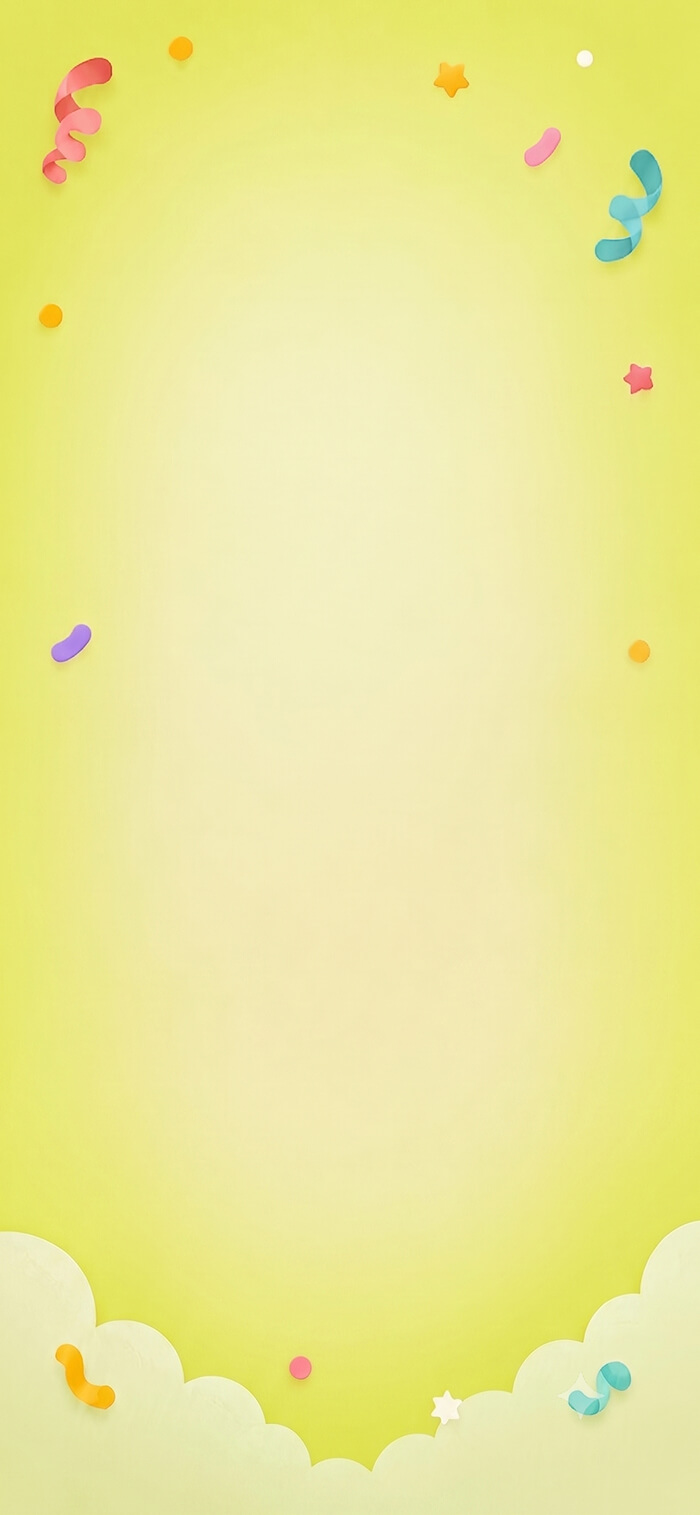
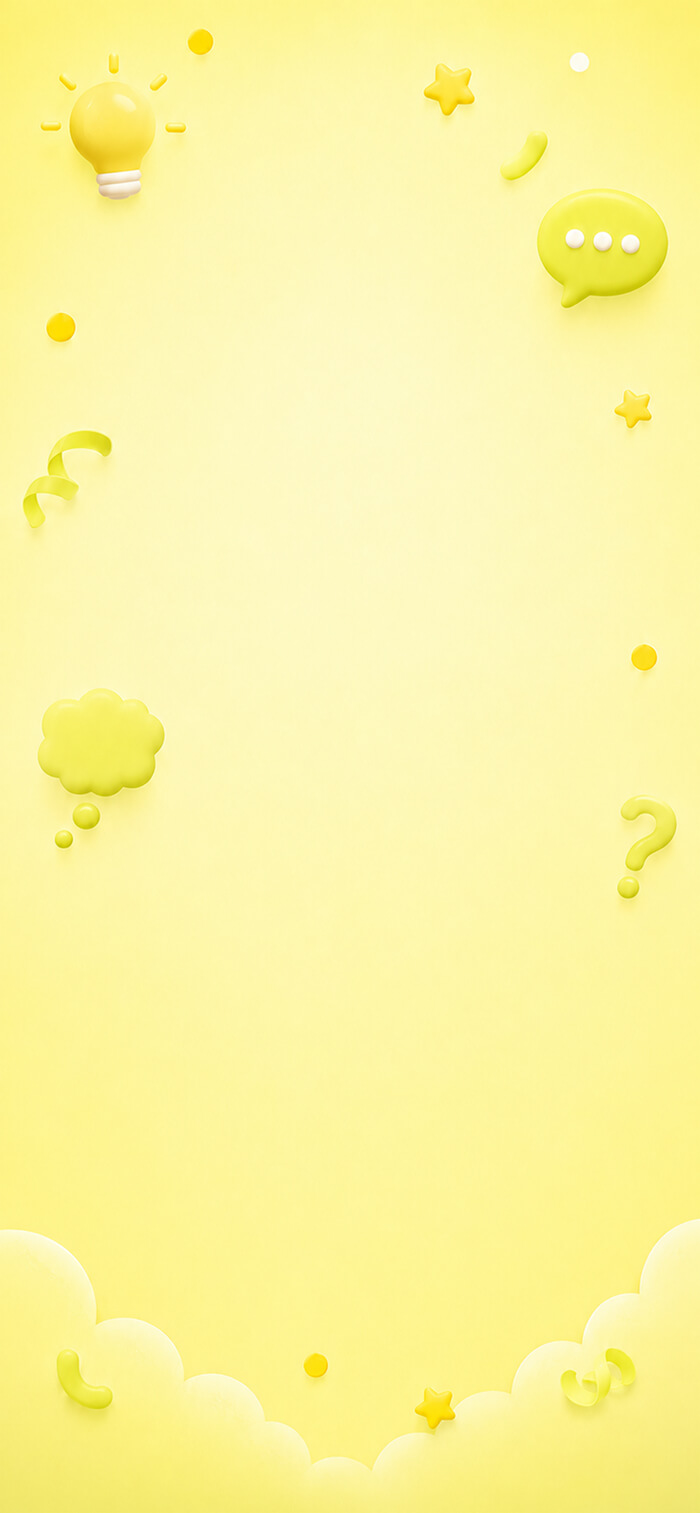
feat: enhance game setup with word count slider and layout adjustments
Add a HorizontalSlider for word count selection, allowing dynamic range from 30 to 150 with a step of 10. Update the layout to disable gestures for the stack navigation. Replace the background image with a new JPEG version for improved performance.

diff --git a/src/ui/components/HorizontalSlider.tsx b/src/ui/components/HorizontalSlider.tsx
@@ -1,0 +1,167 @@
+import { useRef, useState } from 'react';
+import {
+  View,
+  type AccessibilityActionEvent,
+  type GestureResponderEvent,
+  type LayoutChangeEvent,
+} from 'react-native';
+
+import { triggerHaptic } from '@infrastructure/haptics';
+import { Text } from '@ui/components/Text';
+
+const TRACK_HEIGHT = 8;
+const THUMB_SIZE = 28;
+const HIT_HEIGHT = 48;
+
+type HorizontalSliderProps = {
+  label: string;
+  min: number;
+  max: number;
+  step: number;
+  value: number;
+  onChange: (value: number) => void;
+};
+
+export function snapSliderValue(value: number, min: number, max: number, step: number): number {
+  if (step <= 0 || max <= min) {
+    return Math.min(max, Math.max(min, value));
+  }
+  const snapped = Math.round((value - min) / step) * step + min;
+  return Math.min(max, Math.max(min, snapped));
+}
+
+function clamp(value: number, min: number, max: number): number {
+  return Math.min(Math.max(value, min), max);
+}
+
+function valueFromX(x: number, width: number, min: number, max: number, step: number): number {
+  if (width <= 0) {
+    return min;
+  }
+  const ratio = clamp(x / width, 0, 1);
+  return snapSliderValue(min + ratio * (max - min), min, max, step);
+}
+
+export function HorizontalSlider({
+  label,
+  min,
+  max,
+  step,
+  value,
+  onChange,
+}: HorizontalSliderProps) {
+  const snappedValue = snapSliderValue(value, min, max, step);
+  const [trackWidth, setTrackWidth] = useState(0);
+  const originXRef = useRef(0);
+
+  const progress = max <= min ? 0 : (snappedValue - min) / (max - min);
+  const visualX = progress * trackWidth;
+
+  const applyPageX = (pageX: number) => {
+    if (trackWidth <= 0) {
+      return;
+    }
+    const x = clamp(pageX - originXRef.current, 0, trackWidth);
+    const next = valueFromX(x, trackWidth, min, max, step);
+    if (next === snappedValue) {
+      return;
+    }
+    triggerHaptic('light');
+    onChange(next);
+  };
+
+  const onGrant = (event: GestureResponderEvent) => {
+    originXRef.current = event.nativeEvent.pageX - event.nativeEvent.locationX;
+    applyPageX(event.nativeEvent.pageX);
+  };
+
+  const onMove = (event: GestureResponderEvent) => {
+    applyPageX(event.nativeEvent.pageX);
+  };
+
+  const onRelease = () => {
+    return;
+  };
+
+  const onLayout = (event: LayoutChangeEvent) => {
+    setTrackWidth(event.nativeEvent.layout.width);
+  };
+
+  const onAccessibilityAction = (event: AccessibilityActionEvent) => {
+    const action = event.nativeEvent.actionName;
+    if (action !== 'increment' && action !== 'decrement') {
+      return;
+    }
+    const next = snapSliderValue(
+      snappedValue + (action === 'increment' ? step : -step),
+      min,
+      max,
+      step,
+    );
+    if (next === snappedValue) {
+      return;
+    }
+    triggerHaptic('light');
+    onChange(next);
+  };
+
+  const thumbLeft =
+    trackWidth <= 0 ? 0 : clamp(visualX - THUMB_SIZE / 2, 0, trackWidth - THUMB_SIZE);
+
+  return (
+    <View className="w-full">
+      <View className="mb-[14px] flex-row items-center justify-between gap-3">
+        <Text className="flex-1 text-2xl font-bold">{label}</Text>
+        <Text className="text-2xl font-bold text-pink">{snappedValue}</Text>
+      </View>
+      <View
+        accessibilityRole="adjustable"
+        accessibilityLabel={label}
+        accessibilityValue={{ min, max, now: snappedValue }}
+        accessibilityActions={[{ name: 'increment' }, { name: 'decrement' }]}
+        onAccessibilityAction={onAccessibilityAction}
+      >
+        <View
+          className="w-full justify-center"
+          style={{ height: HIT_HEIGHT }}
+          pointerEvents="box-only"
+          onLayout={onLayout}
+          onStartShouldSetResponder={() => true}
+          onMoveShouldSetResponder={() => true}
+          onResponderTerminationRequest={() => false}
+          onResponderGrant={onGrant}
+          onResponderMove={onMove}
+          onResponderRelease={onRelease}
+          onResponderTerminate={onRelease}
+        >
+          <View
+            className="overflow-hidden rounded-full border border-pickerBorder bg-pickerSurface"
+            style={{ height: TRACK_HEIGHT }}
+            pointerEvents="none"
+          >
+            <View className="h-full rounded-full bg-pink" style={{ width: visualX }} />
+          </View>
+          <View
+            className="absolute rounded-full border-[3px] border-white bg-pink"
+            pointerEvents="none"
+            style={{
+              width: THUMB_SIZE,
+              height: THUMB_SIZE,
+              top: (HIT_HEIGHT - THUMB_SIZE) / 2,
+              transform: [{ translateX: thumbLeft }],
+              shadowColor: '#000',
+              shadowOffset: { width: 0, height: 2 },
+              shadowOpacity: 0.2,
+              shadowRadius: 2,
+              elevation: 3,
+            }}
+          />
+        </View>
+      </View>
+      <View className="flex-row justify-between">
+        <Text className="text-sm font-bold text-disabledText">{min}</Text>
+        <Text className="text-sm font-bold text-disabledText">{max}</Text>
+      </View>
+    </View>
+  );
+}

diff --git a/src/app/game/setup.tsx b/src/app/game/setup.tsx
@@ -10,6 +10,7 @@ import { useGameActions, useGameState } from '@features/game/hooks';
 import { useAppSettings } from '@features/settings/store';
 import { ContentColumn } from '@ui/components/ContentColumn';
 import { HorizontalPicker } from '@ui/components/HorizontalPicker';
+import { HorizontalSlider, snapSliderValue } from '@ui/components/HorizontalSlider';
 import { ScreenFooter } from '@ui/components/ScreenFooter';
 import { ScreenHeader } from '@ui/components/ScreenHeader';
 
@@ -17,7 +18,9 @@ const mainBg = require('@assets/images/main-bg.jpg');
 
 const TURN_DURATIONS_SEC = [60, 90, 120] as const;
 const TEAM_COUNTS = [2, 3, 4, 5] as const;
-const WORD_COUNTS = [30, 60, 90, 120] as const;
+const WORD_COUNT_MIN = 30;
+const WORD_COUNT_MAX = 150;
+const WORD_COUNT_STEP = 10;
 
 function SettingsCard({ children }: { children: ReactNode }) {
   return (
@@ -42,10 +45,14 @@ export default function SetupScreen() {
   const { dispatch } = useGameActions();
   const appSettings = useAppSettings();
 
-  const [settings, setSettings] = useState<MatchSettings>(() => ({
-    ...(settingsFromStore ?? DEFAULT_MATCH_SETTINGS),
-    skipPenalty: appSettings.skipPenaltyEnabled ? -1 : 0,
-  }));
+  const [settings, setSettings] = useState<MatchSettings>(() => {
+    const base = settingsFromStore ?? DEFAULT_MATCH_SETTINGS;
+    return {
+      ...base,
+      skipPenalty: appSettings.skipPenaltyEnabled ? -1 : 0,
+      wordCount: snapSliderValue(base.wordCount, WORD_COUNT_MIN, WORD_COUNT_MAX, WORD_COUNT_STEP),
+    };
+  });
 
   const difficultyOptions = useMemo<Difficulty[]>(() => ['easy', 'medium', 'hard'], []);
   const difficultyLabels: Record<Difficulty, string> = {
@@ -88,9 +95,11 @@ export default function SetupScreen() {
                 />
               </SettingsCard>
               <SettingsCard>
-                <HorizontalPicker
+                <HorizontalSlider
                   label={strings.setup.wordCount}
-                  options={[...WORD_COUNTS]}
+                  min={WORD_COUNT_MIN}
+                  max={WORD_COUNT_MAX}
+                  step={WORD_COUNT_STEP}
                   value={settings.wordCount}
                   onChange={(wordCount) => setSettings((current) => ({ ...current, wordCount }))}
                 />

diff --git a/src/app/_layout.tsx b/src/app/_layout.tsx
@@ -54,7 +54,7 @@ function RootLayout() {
     >
       <GestureHandlerRootView style={{ flex: 1 }}>
         <GameRouteSync />
-        <Stack screenOptions={{ headerShown: false }}>
+        <Stack screenOptions={{ headerShown: false, gestureEnabled: false }}>
           <Stack.Screen name="index" options={{ animationTypeForReplace: 'pop' }} />
         </Stack>
       </GestureHandlerRootView>

diff --git a/src/ui/components/ScreenFooter.tsx b/src/ui/components/ScreenFooter.tsx
@@ -32,7 +32,7 @@ export function ScreenFooter({
       <View className="gap-3 px-5">
         {hint ? (
           <View className="mb-1 flex-row items-start justify-center gap-1.5">
-            <InfoIcon className="pt-[2px]" size={20} />
+            <InfoIcon size={20} />
             <Text className="shrink text-xl text-highlightText">{hint}</Text>
           </View>
         ) : null}
